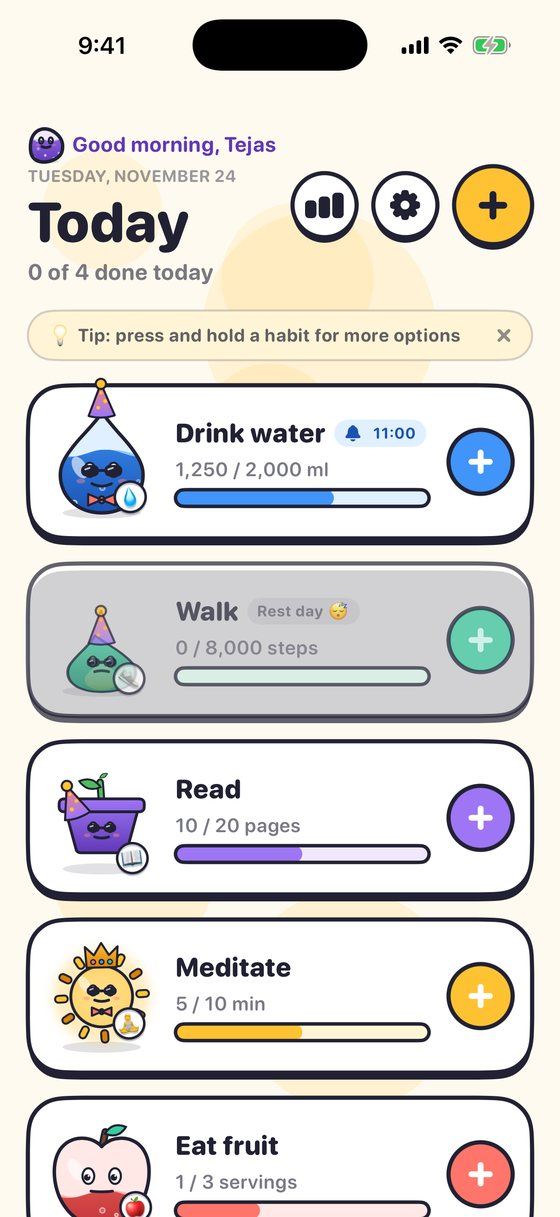
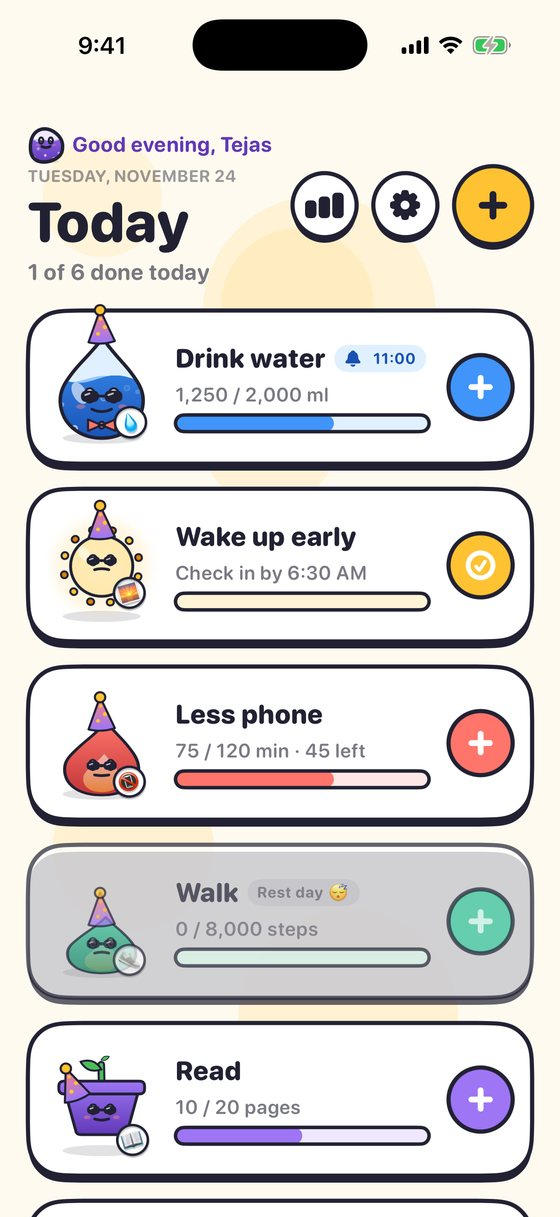
Website: 'Three kinds of habits' section (Build up / Check in / Cut down), fresh v0.10 screenshots, Habits link in menu
Claude-Session: https://claude.ai/code/session_01DzhaZVwyrobK7xc2kPzxpa

diff --git a/docs/index.html b/docs/index.html
@@ -74,6 +74,7 @@ section{padding:80px 0}
 .buddies span{font-size:15px;font-weight:800;padding:8px 14px;border-radius:16px;border:2.5px solid var(--ink)}
 
 .grid{display:grid;grid-template-columns:repeat(4,1fr);gap:22px;margin-top:44px}
+.grid3{grid-template-columns:repeat(3,1fr);max-width:860px;margin-left:auto;margin-right:auto}
 .feature{padding:18px 18px 22px;display:flex;flex-direction:column;align-items:center;text-align:center}
 .feature .phone{width:100%;border-width:7px;border-radius:30px;box-shadow:none;margin-bottom:16px}
 .feature h3{font-size:20px;margin-bottom:4px}
@@ -108,6 +109,12 @@ footer a{margin:0 10px;font-weight:800}
 }
 @media (max-width:520px){
   .grid{gap:14px}
+  .grid3{grid-template-columns:1fr;gap:18px}
+  .grid3 .phone{width:62%;margin-left:auto;margin-right:auto}
+  .grid3 .feature h3{font-size:19px}
+  .grid3 .feature p{font-size:15px}
+  nav .links{overflow-x:auto;padding-bottom:4px}
+  nav .links a{flex:none;padding:6px 12px;font-size:13px}
   .feature{padding:10px 10px 14px}
   .feature h3{font-size:16px}
   .feature p{font-size:13px}
@@ -127,7 +134,7 @@ footer a{margin:0 10px;font-weight:800}
 <div class="wrap">
   <nav>
     <a class="brand" href="./"><img src="img/icon.png" alt="">Blobby</a>
-    <div class="links"><a href="#buddies">Buddies</a><a href="#features">Features</a><a href="privacy.html">Privacy</a><a href="support.html">Support</a></div>
+    <div class="links"><a href="#buddies">Buddies</a><a href="#types">Habits</a><a href="#features">Features</a><a href="privacy.html">Privacy</a><a href="support.html">Support</a></div>
   </nav>
 </div>
 
@@ -138,7 +145,7 @@ footer a{margin:0 10px;font-weight:800}
     <div>
       <div class="tag">Habit buddies for iPhone</div>
       <h1>Tiny habits.<br>Big cheers.</h1>
-      <p class="lead">Every habit gets a cartoon buddy. Drink water and Droplet fills up. Read and your sprout grows. Keep a streak and they level up, put on hats and throw you a party.</p>
+      <p class="lead">Every habit gets a cartoon buddy. Drink water and Droplet fills up. Wake up on time and Sunny cheers. Cut down on your phone and your buddy keeps calm. Keep a streak and they level up, put on hats and throw you a party.</p>
       <div class="pills">
         <span class="pill">🔒 No account</span>
         <span class="pill">🚫 No ads</span>
@@ -178,6 +185,31 @@ footer a{margin:0 10px;font-weight:800}
   </div>
 </section>
 
+<section id="types" style="background:var(--sun-l);border-top:3px solid var(--ink);border-bottom:3px solid var(--ink)">
+  <div class="wrap center">
+    <span class="kicker" style="background:#fff">Three kinds of habits</span>
+    <h2>Do more. Show up. Cut down.</h2>
+    <p class="muted" style="max-width:56ch;margin:12px auto 0">Not every habit is about counting. Blobby handles all three — and your buddy reacts the right way for each.</p>
+    <div class="grid grid3">
+      <div class="card feature">
+        <div class="phone"><img src="img/3-drop.jpg" alt="Water habit filling up toward 3 litres"></div>
+        <h3>📈 Build up</h3>
+        <p>Fill up to a daily goal — 2 L of water, 8,000 steps, 20 pages.</p>
+      </div>
+      <div class="card feature">
+        <div class="phone"><img src="img/t2-checkin.jpg" alt="Wake up early check-in with a 6:30 deadline"></div>
+        <h3>✅ Check in</h3>
+        <p>Once a day, with an optional deadline. Wake up by 6:30, sleep by 11 — late doesn't count.</p>
+      </div>
+      <div class="card feature">
+        <div class="phone"><img src="img/t3-limit.jpg" alt="Less phone limit with 45 minutes left today"></div>
+        <h3>✂ Cut down</h3>
+        <p>Stay under a daily limit — less phone, less sugar. Your buddy gets nervous as you get close.</p>
+      </div>
+    </div>
+  </div>
+</section>
+
 <section id="features">
   <div class="wrap center">
     <span class="kicker" style="background:var(--sun)">Everything you need</span>
@@ -191,7 +223,7 @@ footer a{margin:0 10px;font-weight:800}
       <div class="card feature">
         <div class="phone"><img src="img/8-add.jpg" alt="Adding a new habit"></div>
         <h3>Add in seconds</h3>
-        <p>Quick picks, your own goal, rest days and a gentle reminder.</p>
+        <p>Quick picks, rest days, deadlines and gentle reminders.</p>
       </div>
       <div class="card feature">
         <div class="phone"><img src="img/r2-month.jpg" alt="Month report with a calendar of all habits"></div>
